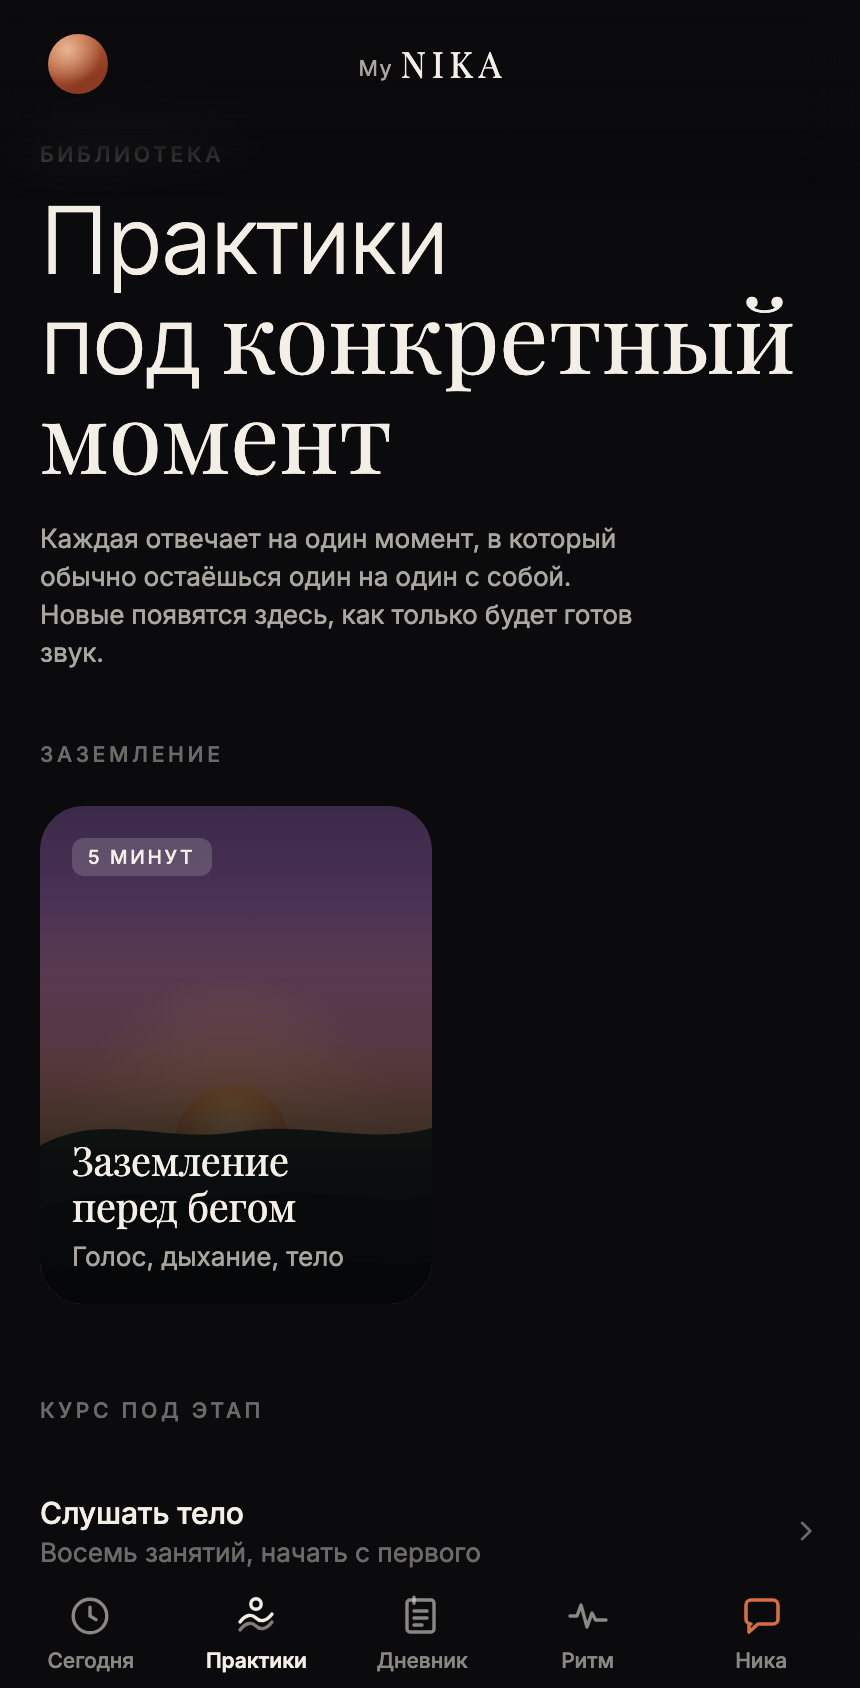
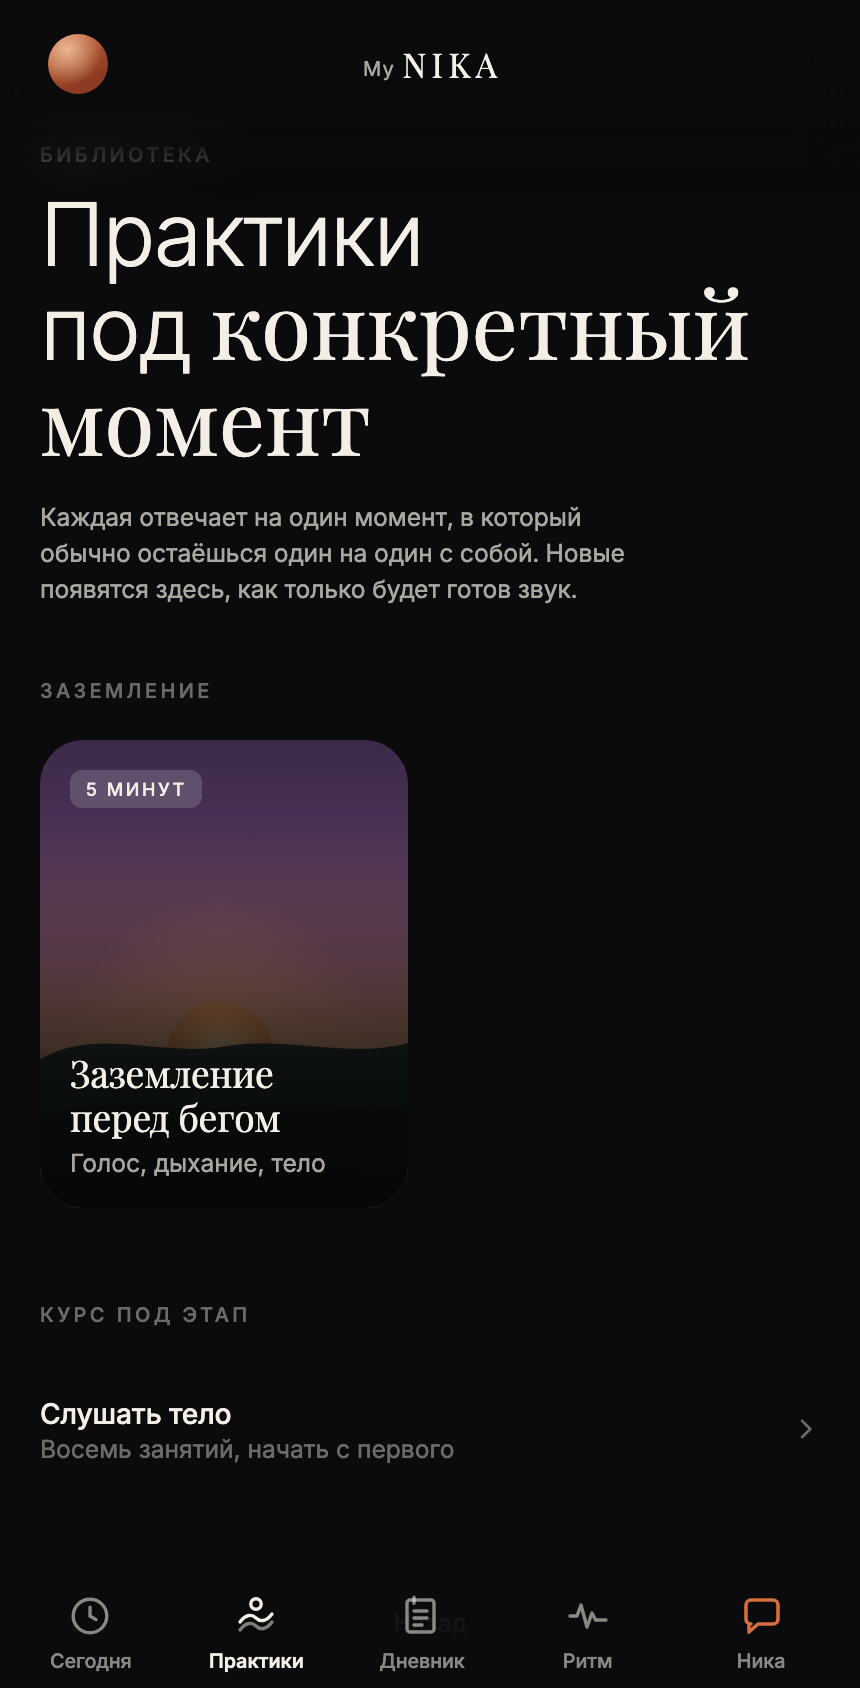
fix(02): настройки шрифта в профиле
Причины: переменные шрифта ставились на .app, а font-family наследуется от body,
поэтому основной текст оставался на Inter; масштаб ставился в font-size .app, а все
размеры в rem считаются от <html>, поэтому размер не менялся; контрола жирности не было.
Сами шрифты (Inter, Playfair Display, Lora, Source Serif 4, Golos Text, с кириллицей)
загружались корректно.

- шрифт: --disp/--sans (и --font-display/--font-ui) на <html>
- размер: html { font-size: N% } (94/100/108/118), текст на rem
- жирность: новый контрол «Обычная / Плотнее», --font-weight-body на <html>
- выбор хранится в localStorage (nika_ui) и в профиле (ui_prefs, weight 400|500);
  инлайн-скрипт в <head> применяет его до первой отрисовки, без мигания
- листы 08 пересняты: на 118% карточки растут вместе с текстом и не ломаются

diff --git a/public/app/index.html b/public/app/index.html
@@ -13,7 +13,17 @@
 <script>/* вариант навигации до первой отрисовки: стекло на iOS/iPadOS, бар на остальных; ?nav=glass|solid для проверки */
 (function(){var q=/[?&]nav=(glass|solid)\b/.exec(location.search),ua=navigator.userAgent,
 ios=/iPhone|iPad|iPod/.test(ua)||(/Macintosh/.test(ua)&&navigator.maxTouchPoints>1);
-document.documentElement.setAttribute('data-nav',q?q[1]:(ios?'glass':'solid'));})();</script>
+document.documentElement.setAttribute('data-nav',q?q[1]:(ios?'glass':'solid'));})();
+/* вид из профиля до первой отрисовки, чтобы не мигало: шрифт, размер, жирность */
+(function(){try{var u=JSON.parse(localStorage.getItem('nika_ui')||'null');if(!u)return;var F={
+nika:["'Playfair Display','Times New Roman',Georgia,serif","'Inter',-apple-system,system-ui,sans-serif","-.036em"],
+tikhaya:["'Lora',Georgia,serif","'Inter',-apple-system,system-ui,sans-serif","-.03em"],
+kniga:["'Source Serif 4',Georgia,serif","'Inter',-apple-system,system-ui,sans-serif","-.032em"],
+golos:["'Golos Text',-apple-system,system-ui,sans-serif","'Golos Text',-apple-system,system-ui,sans-serif","-.042em"],
+pryamaya:["'Inter',-apple-system,system-ui,sans-serif","'Inter',-apple-system,system-ui,sans-serif","-.045em"]},
+r=document.documentElement.style,f=F[u.font];
+if(f){r.setProperty('--disp',f[0]);r.setProperty('--sans',f[1]);r.setProperty('--n-ls',f[2]);r.setProperty('--font-display',f[0]);r.setProperty('--font-ui',f[1]);}
+if(u.size)r.fontSize=u.size+'%';if(u.weight)r.setProperty('--font-weight-body',u.weight);}catch(e){}})();</script>
 <title>НИКА</title>
 <link rel="preconnect" href="https://fonts.googleapis.com">
 <link rel="preconnect" href="https://fonts.gstatic.com" crossorigin>
@@ -59,7 +69,7 @@ document.documentElement.setAttribute('data-nav',q?q[1]:(ios?'glass':'solid'));}
 *,*::before,*::after{box-sizing:border-box;-webkit-tap-highlight-color:transparent}
 html{font-size:100%}
 html,body{margin:0;padding:0;height:100%;background:#0B0B0D;overscroll-behavior:none}
-body{font-family:var(--sans);font-size:var(--t-body);line-height:var(--t-lh-body);letter-spacing:var(--t-ls-body);
+body{font-family:var(--sans);font-weight:var(--font-weight-body,400);font-size:var(--t-body);line-height:var(--t-lh-body);letter-spacing:var(--t-ls-body);
   color:var(--ink);background:#0B0B0D;font-optical-sizing:auto;font-variant-numeric:tabular-nums;
   overflow:hidden}
 button{font-family:inherit;font-size:inherit;border:0;background:none;cursor:pointer;color:inherit;text-align:left;
@@ -1206,6 +1216,14 @@ button.cli:active{opacity:.65}
       </div>
 
       <div class="setgroup">
+        <div class="lab">Жирность текста</div>
+        <div class="seg2" id="weightSeg">
+          <button class="on" data-weight="400">Обычная</button>
+          <button data-weight="500">Плотнее</button>
+        </div>
+      </div>
+
+      <div class="setgroup">
         <div class="lab">Небо</div>
         <p class="why">Фон главного экрана. Он же определяет, в каком свете ты видишь Нику каждое утро.</p>
         <div class="skyrow" id="skyrow">
@@ -2172,15 +2190,19 @@ button.cli:active{opacity:.65}
     pryamaya: {disp:"'Inter',-apple-system,system-ui,sans-serif",         sans:"'Inter',-apple-system,system-ui,sans-serif", ls:'-.045em'}
   };
   var uiPrefs={};
+  var root=document.documentElement;
+  function saveLocalUi(){ try{ localStorage.setItem('nika_ui',JSON.stringify(uiPrefs)); }catch(e){} }
   function saveUi(patch){
     for(var k in patch) uiPrefs[k]=patch[k];
+    saveLocalUi();
     api('/api/v2/profile',{method:'PATCH',body:{uiPrefs:uiPrefs}});
   }
   function setFont(k,silent){
     var f=FONTS[k]; if(!f) return;
-    var r=app.style;
-    r.setProperty('--disp',f.disp);
-    r.setProperty('--sans',f.sans);
+    /* на <html>: font-family наследуется от body, переменные на .app до него не доходят */
+    var r=root.style;
+    r.setProperty('--disp',f.disp); r.setProperty('--font-display',f.disp);
+    r.setProperty('--sans',f.sans); r.setProperty('--font-ui',f.sans);
     r.setProperty('--n-ls',f.ls);
     document.querySelectorAll('#fontlist .fontrow').forEach(function(b){ b.classList.toggle('on',b.dataset.font===k); });
     if(!silent){ haptic(7); saveUi({font:k}); }
@@ -2190,7 +2212,8 @@ button.cli:active{opacity:.65}
   });
 
   function setSize(px,silent){
-    app.style.fontSize=px+'%';
+    /* масштаб от <html>: все размеры текста в rem */
+    root.style.fontSize=px+'%';
     document.querySelectorAll('#sizeSeg button').forEach(function(b){ b.classList.toggle('on',b.dataset.size===String(px)); });
     if(!silent){ haptic(7); saveUi({size:px}); }
   }
@@ -2222,9 +2245,20 @@ button.cli:active{opacity:.65}
     swM.classList.toggle('on',forceCalm);
     app.dataset.calm=forceCalm?'1':'0'; haptic(7); saveUi({calm:forceCalm});
   });
+  function setWeight(w,silent){
+    w=+w===500?500:400;
+    root.style.setProperty('--font-weight-body',w);
+    document.querySelectorAll('#weightSeg button').forEach(function(b){ b.classList.toggle('on',b.dataset.weight===String(w)); });
+    if(!silent){ haptic(7); saveUi({weight:w}); }
+  }
+  document.querySelectorAll('#weightSeg button').forEach(function(b){
+    b.addEventListener('click',function(){ setWeight(b.dataset.weight); });
+  });
   /* настройки вида из профиля; небо по умолчанию от времени, когда обычно получается бегать */
   window.__applyUi=function(ui,daypart){
     uiPrefs={}; for(var k in ui) uiPrefs[k]=ui[k];
+    saveLocalUi();
+    setWeight(ui.weight||400,true);
     setFont(ui.font||'nika',true);
     setSize(ui.size||100,true);
     setSky(ui.sky||(daypart==='evening'?'sc-dusk':daypart==='morning'?'sc-dawn':'sc-dusk'),true);

diff --git a/lib/v2/validate.ts b/lib/v2/validate.ts
@@ -174,6 +174,7 @@ export function parseUiPrefs(v: unknown): Record<string, string | number | boole
   if (typeof src.size === "number" && (UI_SIZES as readonly number[]).includes(src.size)) out.size = src.size;
   const sky = pick(UI_SKIES, src.sky);
   if (sky) out.sky = sky;
+  if (src.weight === 400 || src.weight === 500) out.weight = src.weight;
   if (typeof src.contrast === "boolean") out.contrast = src.contrast;
   if (typeof src.calm === "boolean") out.calm = src.calm;
   return out;

diff --git a/lib/v2/validate.test.ts b/lib/v2/validate.test.ts
@@ -83,6 +83,8 @@ describe("профиль и онбординг", () => {
   it("настройки вида отбрасывают неизвестное", () => {
     expect(parseUiPrefs({ size: 50, font: "comic" })).toEqual({});
     expect(parseUiPrefs("x")).toBeNull();
+    expect(parseUiPrefs({ weight: 500 })).toEqual({ weight: 500 });
+    expect(parseUiPrefs({ weight: 900 })).toEqual({});
   });
 });
 
